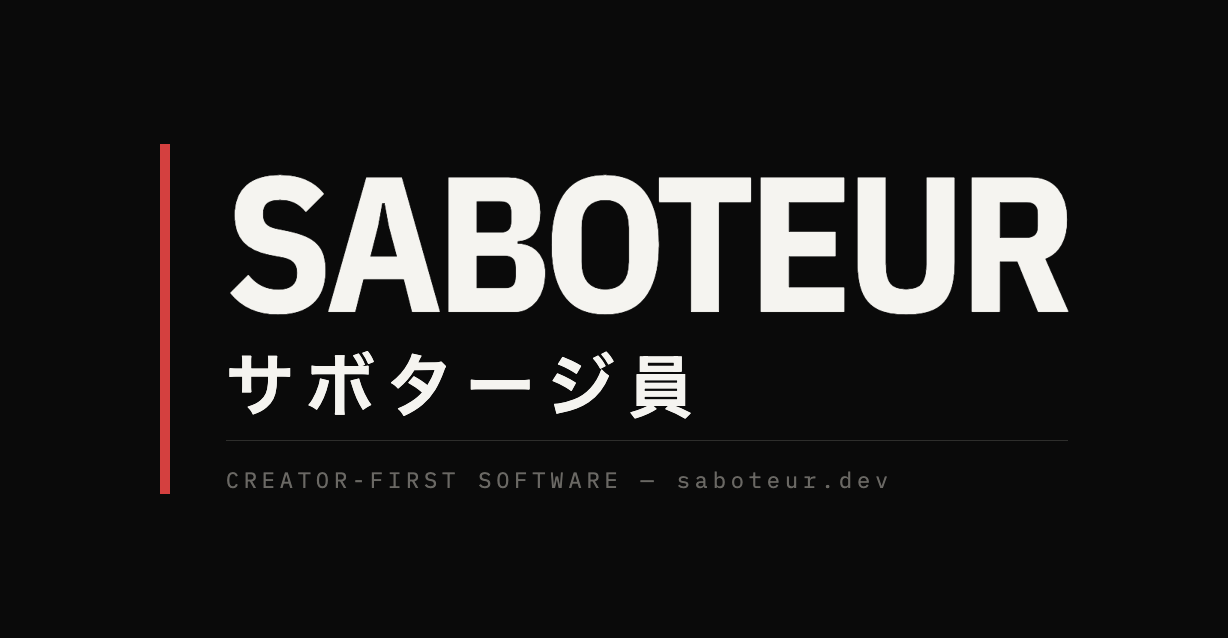
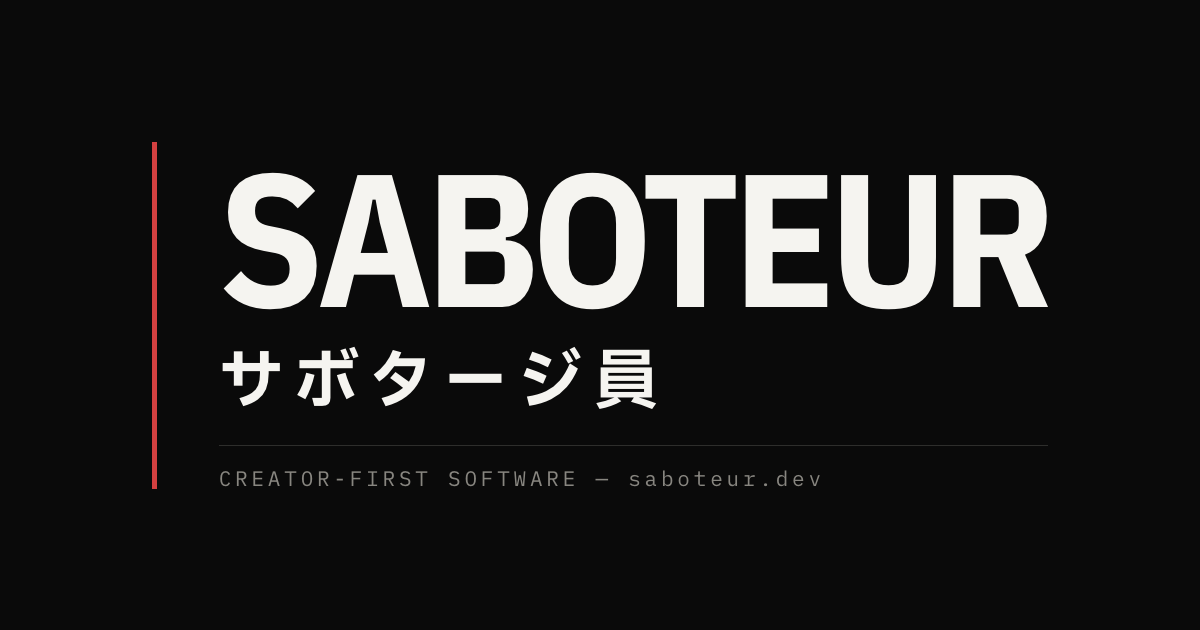
Generate the OG card from the wordmark instead of an image file
The card was 1228x638; SHARED-image-rules.md specifies exactly 1200x630.
Cropping was the wrong fix — the two aspect ratios differ (1.924 vs
1.905), so a center crop would have shaved the red structural bar.

The card is the hero mark, so it can be rendered from markup.
scripts/og-card.html rebuilds it from the same three tiers, the same
brand token literals, and the same self-hosted IBM Plex files the site
ships — headless Chrome screenshots it at exactly 1200x630 via
`npm run og:card`. The card can no longer drift from the mark on the
page, and regenerating it after a brand change is one command.

Sizes are absolute px rather than the hero's clamp(): the canvas is
fixed, so there is nothing to scale against. Tuned to sit at the same
proportions as the card it replaces.

CHROME overrides the binary path for anyone not on macOS.

index.astro drops its explicit ogImageWidth/Height now that the asset
matches Base.astro's 1200x630 defaults. 33 KB, under the 300 KB ceiling.

Verified: regenerated through the npm script, dist emits og:image:width
1200 / height 630, and npm run ci passes.

diff --git a/scripts/og-card.html b/scripts/og-card.html
@@ -1,0 +1,96 @@
+<!doctype html>
+<!--
+  OG card source — rendered to public/assets/og-card.png by `npm run og:card`.
+
+  The card IS the hero mark: same three tiers, same red structural bar, same
+  brand tokens, on brand-black. Generating it from markup instead of an image
+  editor means the card can never drift from the mark on the page, and the
+  fonts are the same self-hosted IBM Plex files the site ships.
+
+  Sizes are absolute px rather than the hero's clamp() — the canvas is a fixed
+  1200x630 (sections/SHARED-image-rules.md §Asset conventions), so there is
+  nothing to scale against.
+-->
+<html lang="en">
+  <head>
+    <meta charset="UTF-8" />
+    <link rel="stylesheet" href="../node_modules/@fontsource/ibm-plex-sans-condensed/700.css" />
+    <link rel="stylesheet" href="../node_modules/@fontsource/ibm-plex-sans-jp/700.css" />
+    <link rel="stylesheet" href="../node_modules/@fontsource/ibm-plex-mono/400.css" />
+    <style>
+      /* Mirrors saboteur-styles/styles/saboteur-base.css. Duplicated as literals
+         because this file renders outside the Astro/Tailwind pipeline. */
+      :root {
+        --color-brand-black: #0a0a0a;
+        --color-brand-red: #d44040;
+        --color-brand-dim: #2e2e2c;
+        --color-fg-primary: #f5f4f0;
+        --color-fg-tertiary: #888680;
+        --font-display: "IBM Plex Sans Condensed", sans-serif;
+        --font-jp: "IBM Plex Sans JP", sans-serif;
+        --font-mono: "IBM Plex Mono", monospace;
+        --tracking-wordmark: -0.04em;
+      }
+
+      * { margin: 0; padding: 0; box-sizing: border-box; }
+
+      html, body {
+        width: 1200px;
+        height: 630px;
+        background: var(--color-brand-black);
+        -webkit-font-smoothing: antialiased;
+      }
+
+      body {
+        display: flex;
+        align-items: center;
+        justify-content: center;
+      }
+
+      .mark {
+        display: flex;
+        flex-direction: column;
+        border-left: 5px solid var(--color-brand-red);
+        padding-left: 62px;
+      }
+
+      .wordmark {
+        font-family: var(--font-display);
+        font-weight: 700;
+        font-size: 189px;
+        letter-spacing: var(--tracking-wordmark);
+        line-height: 1;
+        color: var(--color-fg-primary);
+      }
+
+      .jp {
+        font-family: var(--font-jp);
+        font-weight: 700;
+        font-size: 65px;
+        letter-spacing: 0.16em;
+        line-height: 1;
+        color: var(--color-fg-primary);
+        margin-top: 20px;
+      }
+
+      .descriptor {
+        font-family: var(--font-mono);
+        font-weight: 400;
+        font-size: 21px;
+        letter-spacing: 0.18em;
+        line-height: 1;
+        color: var(--color-fg-tertiary);
+        border-top: 1px solid var(--color-brand-dim);
+        padding-top: 22px;
+        margin-top: 29px;
+      }
+    </style>
+  </head>
+  <body>
+    <div class="mark">
+      <span class="wordmark">SABOTEUR</span>
+      <span class="jp">サボタージ員</span>
+      <span class="descriptor">CREATOR-FIRST SOFTWARE — saboteur.dev</span>
+    </div>
+  </body>
+</html>
